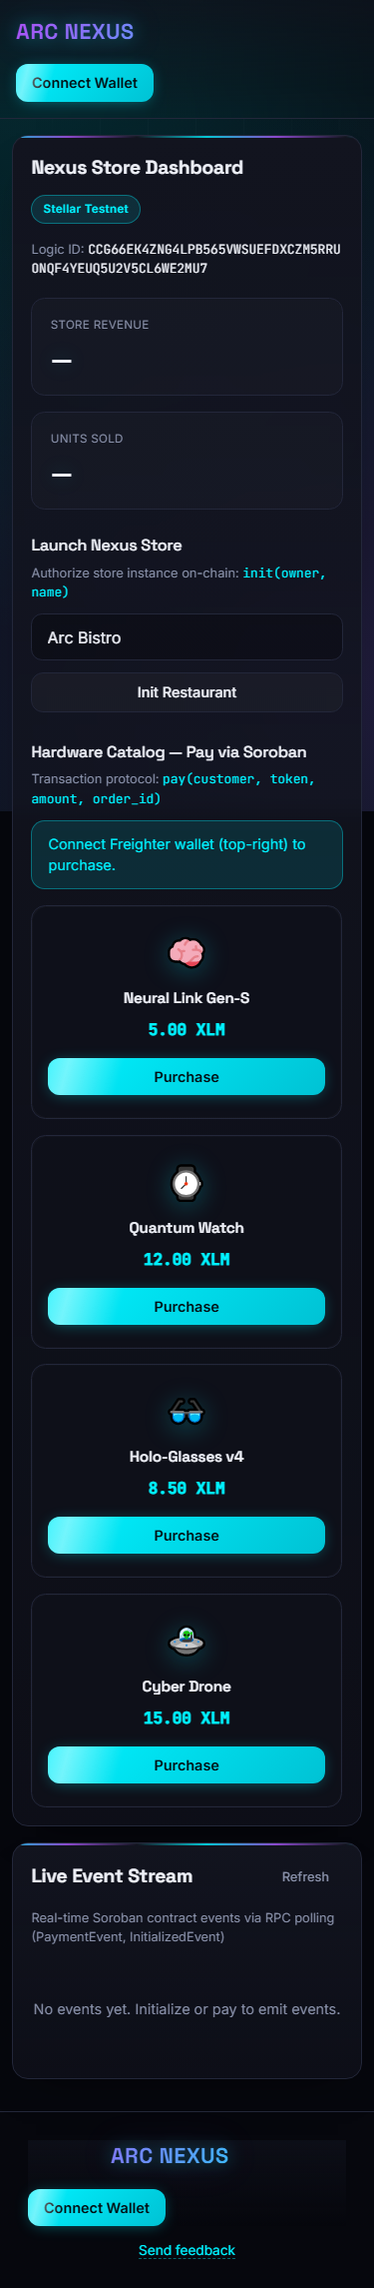
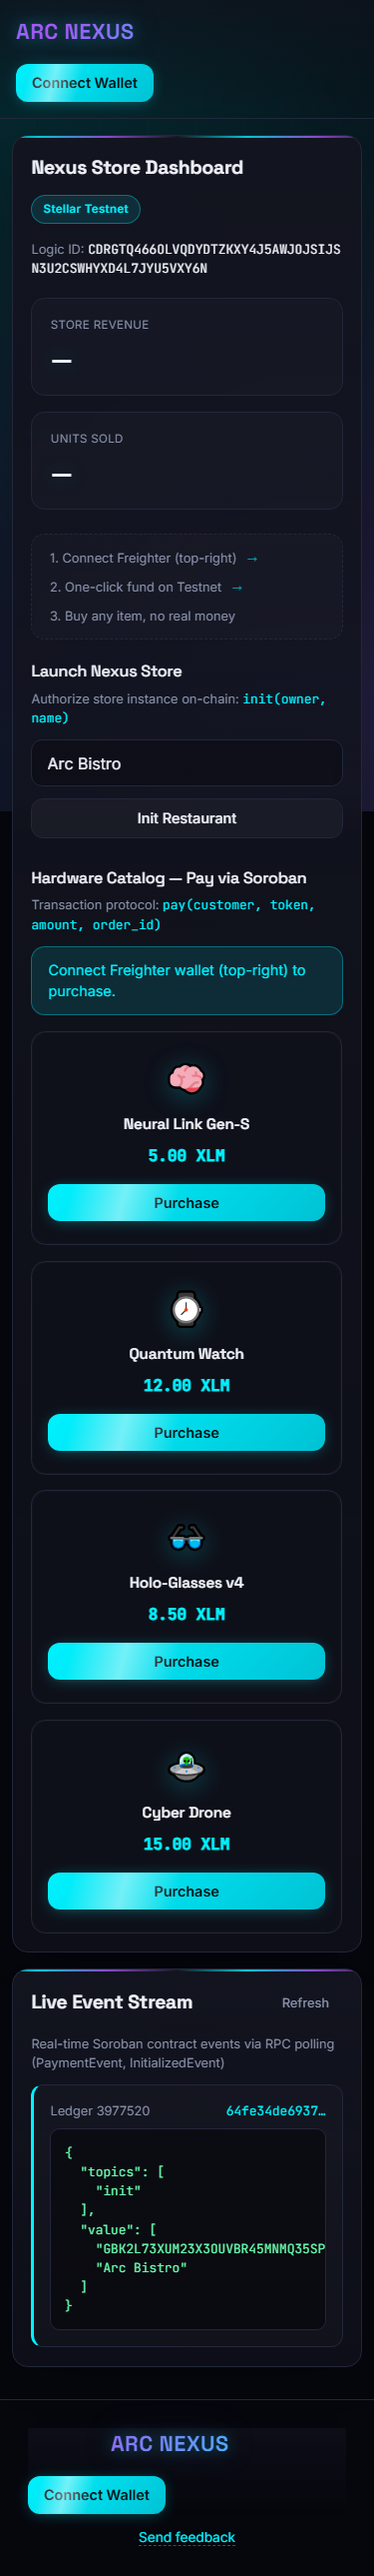
Level 5 product iteration: contract auth fix, mobile fallback, clearer onboarding
- contracts/restaurant: add owner.require_auth() to init() - closes the
  front-running gap flagged in engineering feedback (anyone could previously
  call init() on a fresh, uninitialized contract and set themselves as
  owner). Redeployed to a new contract ID, verified get_owner/get_name/
  get_balance/get_order_count all respond correctly.
- useWallet: mobile browsers get an honest "Freighter has no mobile app yet,
  use desktop" message instead of the generic "not found" error.
- RestaurantPanel: added a 3-step onboarding hint (connect -> fund -> buy)
  visible before wallet connection, addressing the "funding flow is a bit
  hidden" feedback from earlier testing.

diff --git a/src/hooks/useWallet.js b/src/hooks/useWallet.js
@@ -11,6 +11,10 @@ import {
 import { NETWORK_PASSPHRASE } from '../lib/contract.js';
 import { trackEvent } from '../lib/monitoring.js';
 
+function isMobileBrowser() {
+  return typeof navigator !== 'undefined' && /Android|iPhone|iPad|iPod/i.test(navigator.userAgent || '');
+}
+
 function freighterError(result, fallback) {
   if (result?.error) {
     throw new Error(result.error.message || fallback);
@@ -79,6 +83,11 @@ export function useWallet() {
     try {
       const connection = await safeFreighterCheck(isConnected);
       if (!connection?.isConnected) {
+        if (isMobileBrowser()) {
+          throw new Error(
+            'Freighter is a desktop browser extension and has no mobile app yet — open this page on a desktop browser with Freighter installed to connect a wallet.'
+          );
+        }
         throw new Error(
           'Freighter wallet not found. Install it from https://freighter.app and refresh.'
         );

diff --git a/src/components/RestaurantPanel.jsx b/src/components/RestaurantPanel.jsx
@@ -308,6 +308,16 @@ export default function RestaurantPanel() {
         </div>
       </div>
 
+      {!connected && (
+        <div className="onboarding-hint" role="status">
+          <span className="onboarding-step">1. Connect Freighter (top-right)</span>
+          <span className="onboarding-arrow">→</span>
+          <span className="onboarding-step">2. One-click fund on Testnet</span>
+          <span className="onboarding-arrow">→</span>
+          <span className="onboarding-step">3. Buy any item, no real money</span>
+        </div>
+      )}
+
       {checkingAccount && connected && (
         <div className="alert alert-info">Checking testnet account…</div>
       )}

diff --git a/src/index.css b/src/index.css
@@ -534,6 +534,30 @@ h1, h2, h3, h4 {
   text-shadow: 0 0 20px rgba(0, 242, 255, 0.25);
 }
 
+/* --- Onboarding hint --- */
+.onboarding-hint {
+  display: flex;
+  align-items: center;
+  gap: 0.6rem;
+  flex-wrap: wrap;
+  padding: 0.85rem 1.1rem;
+  margin-bottom: 1.25rem;
+  border-radius: 0.85rem;
+  background: rgba(255, 255, 255, 0.02);
+  border: 1px dashed var(--border-color);
+  font-size: 0.8rem;
+  color: var(--text-secondary);
+}
+
+.onboarding-step {
+  white-space: nowrap;
+}
+
+.onboarding-arrow {
+  color: var(--accent-color);
+  opacity: 0.6;
+}
+
 /* --- Funding --- */
 .funding-card {
   padding: 1.1rem 1.3rem;

diff --git a/contracts/restaurant/src/lib.rs b/contracts/restaurant/src/lib.rs
@@ -35,6 +35,8 @@ impl RestaurantContract {
             return Err(Error::AlreadyInitialized);
         }
 
+        owner.require_auth();
+
         env.storage().instance().set(&DataKey::Owner, &owner);
         env.storage().instance().set(&DataKey::Name, &name);
         env.storage().instance().set(&DataKey::Balance, &0i128);

diff --git a/README.md b/README.md
@@ -10,7 +10,7 @@
 ## Live Demo
 
 - **Frontend**: [arc-restaurant-git.vercel.app](https://arc-restaurant-git.vercel.app/)
-- **Contract (Testnet)**: `CCG66EK4ZNG4LPB565VWSUEFDXCZM5RRUONQF4YEUQ5U2V5CL6WE2MU7`
+- **Contract (Testnet)**: `CDRGTQ466OLVQDYDTZKXY4J5AWJOJSIJSN3U2CSWHYXD4L7JYU5VXY6N`
 - **Demo video**: _pending_
 
 ## Screenshots
